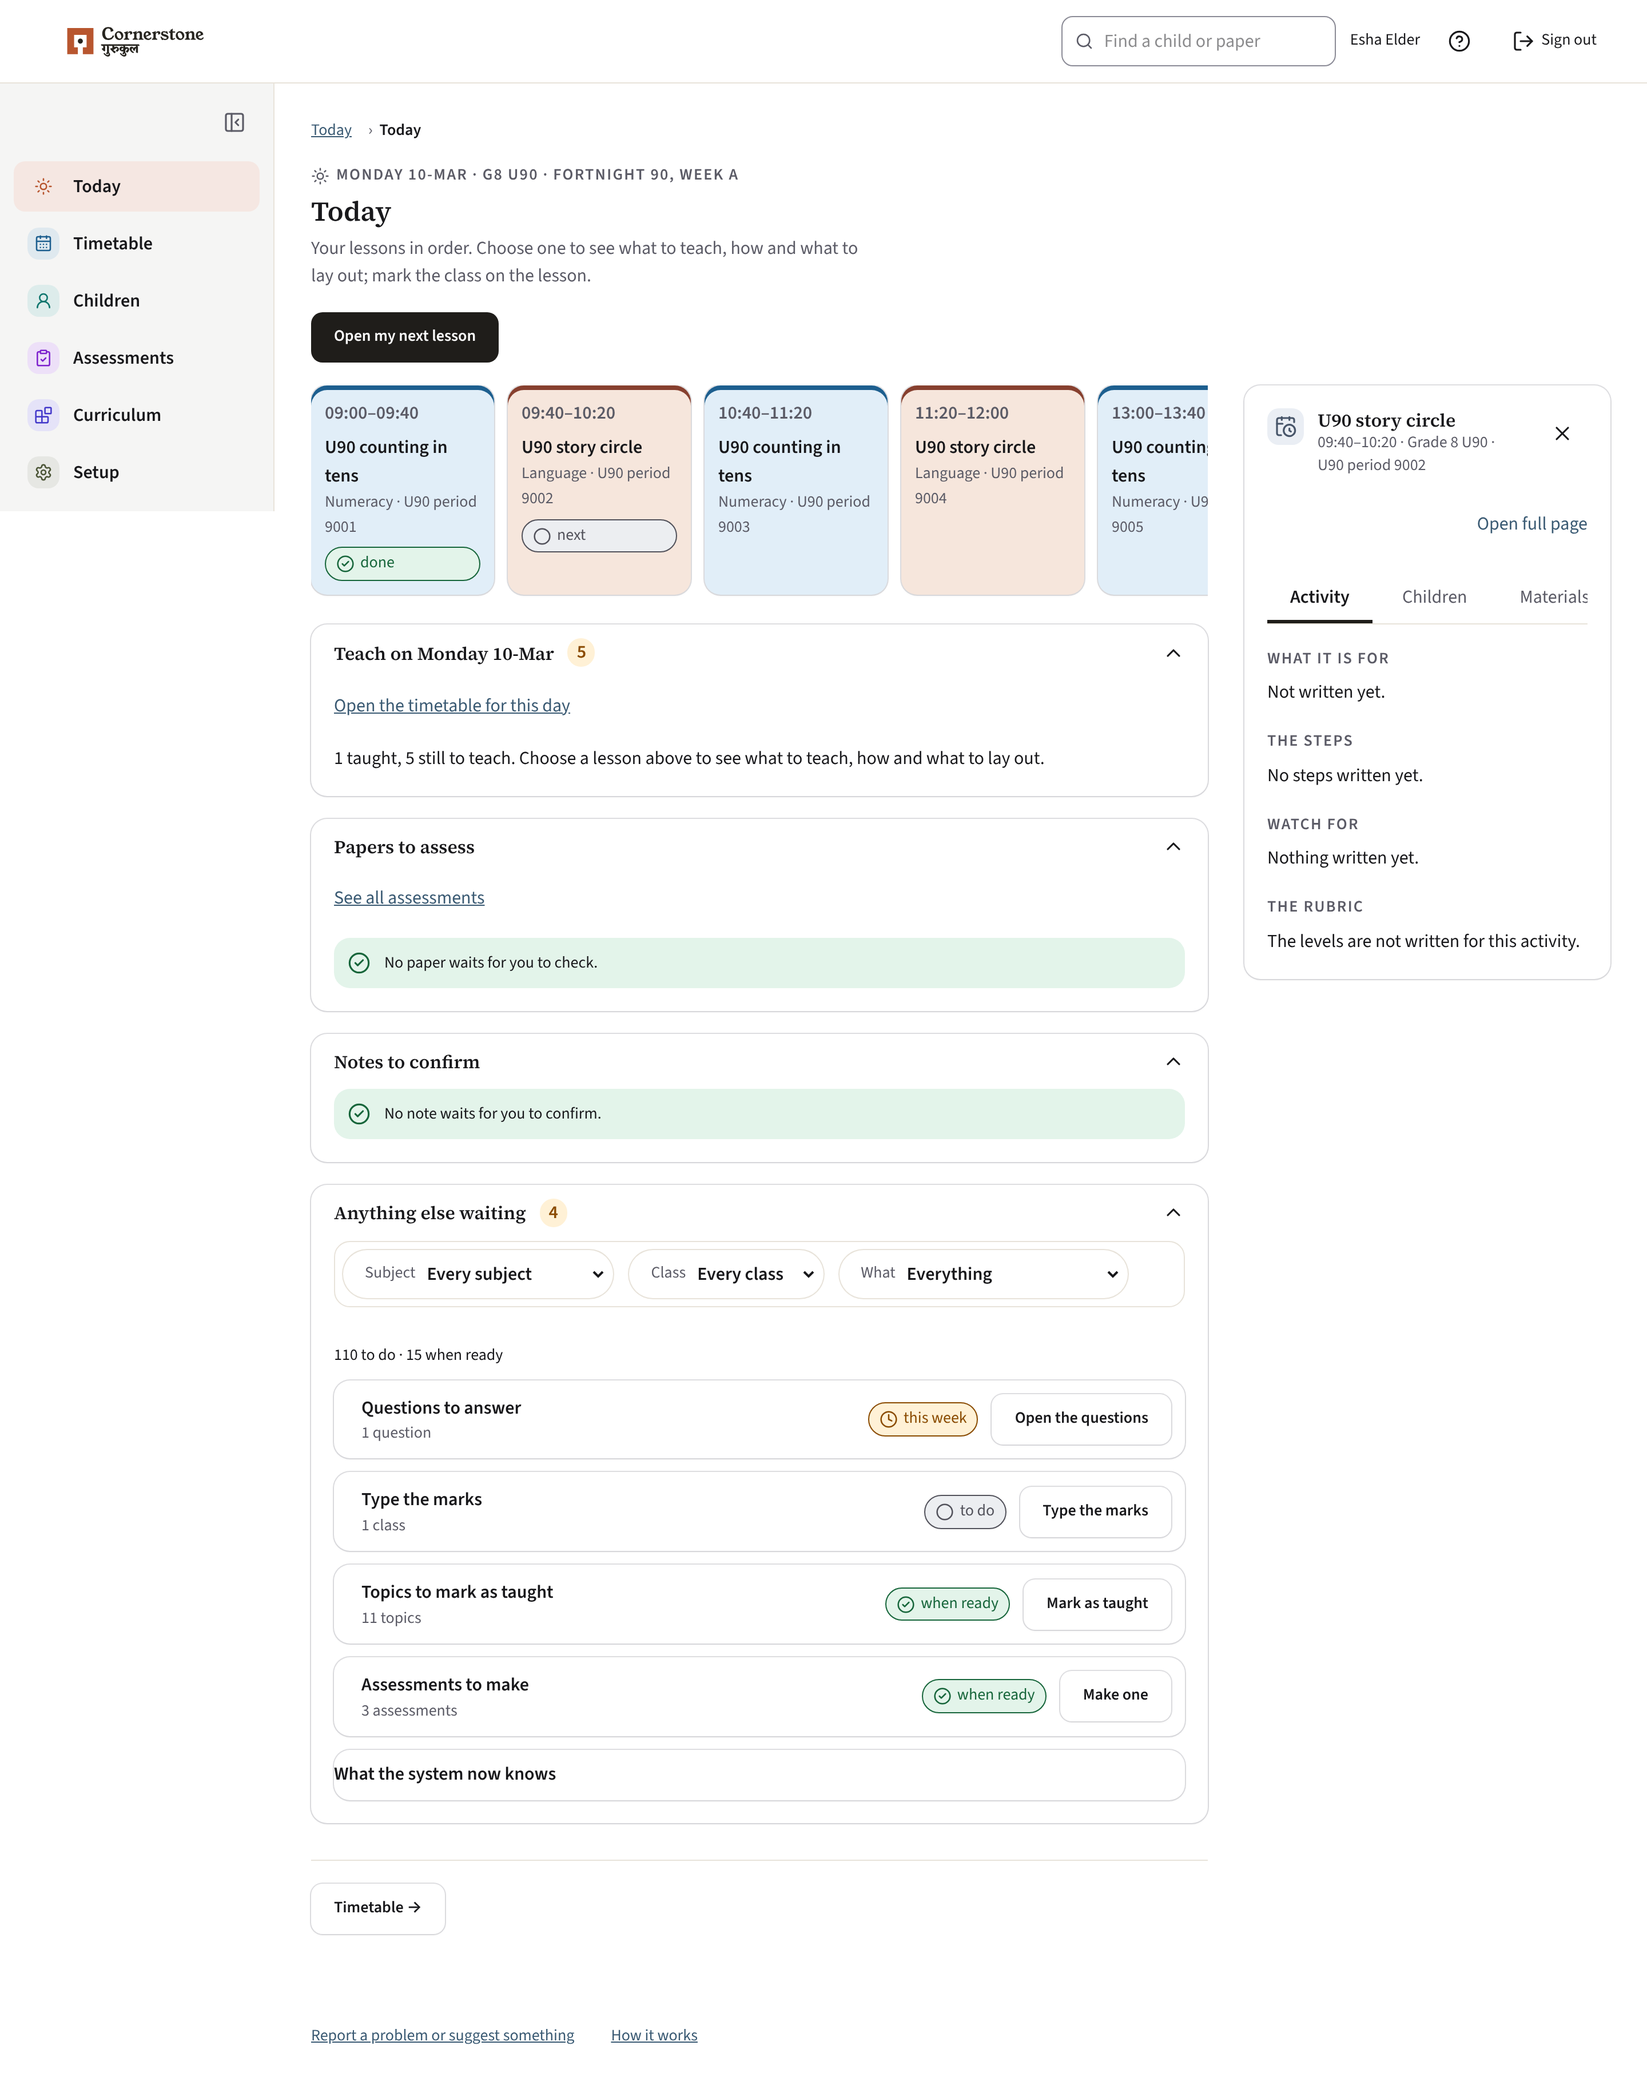
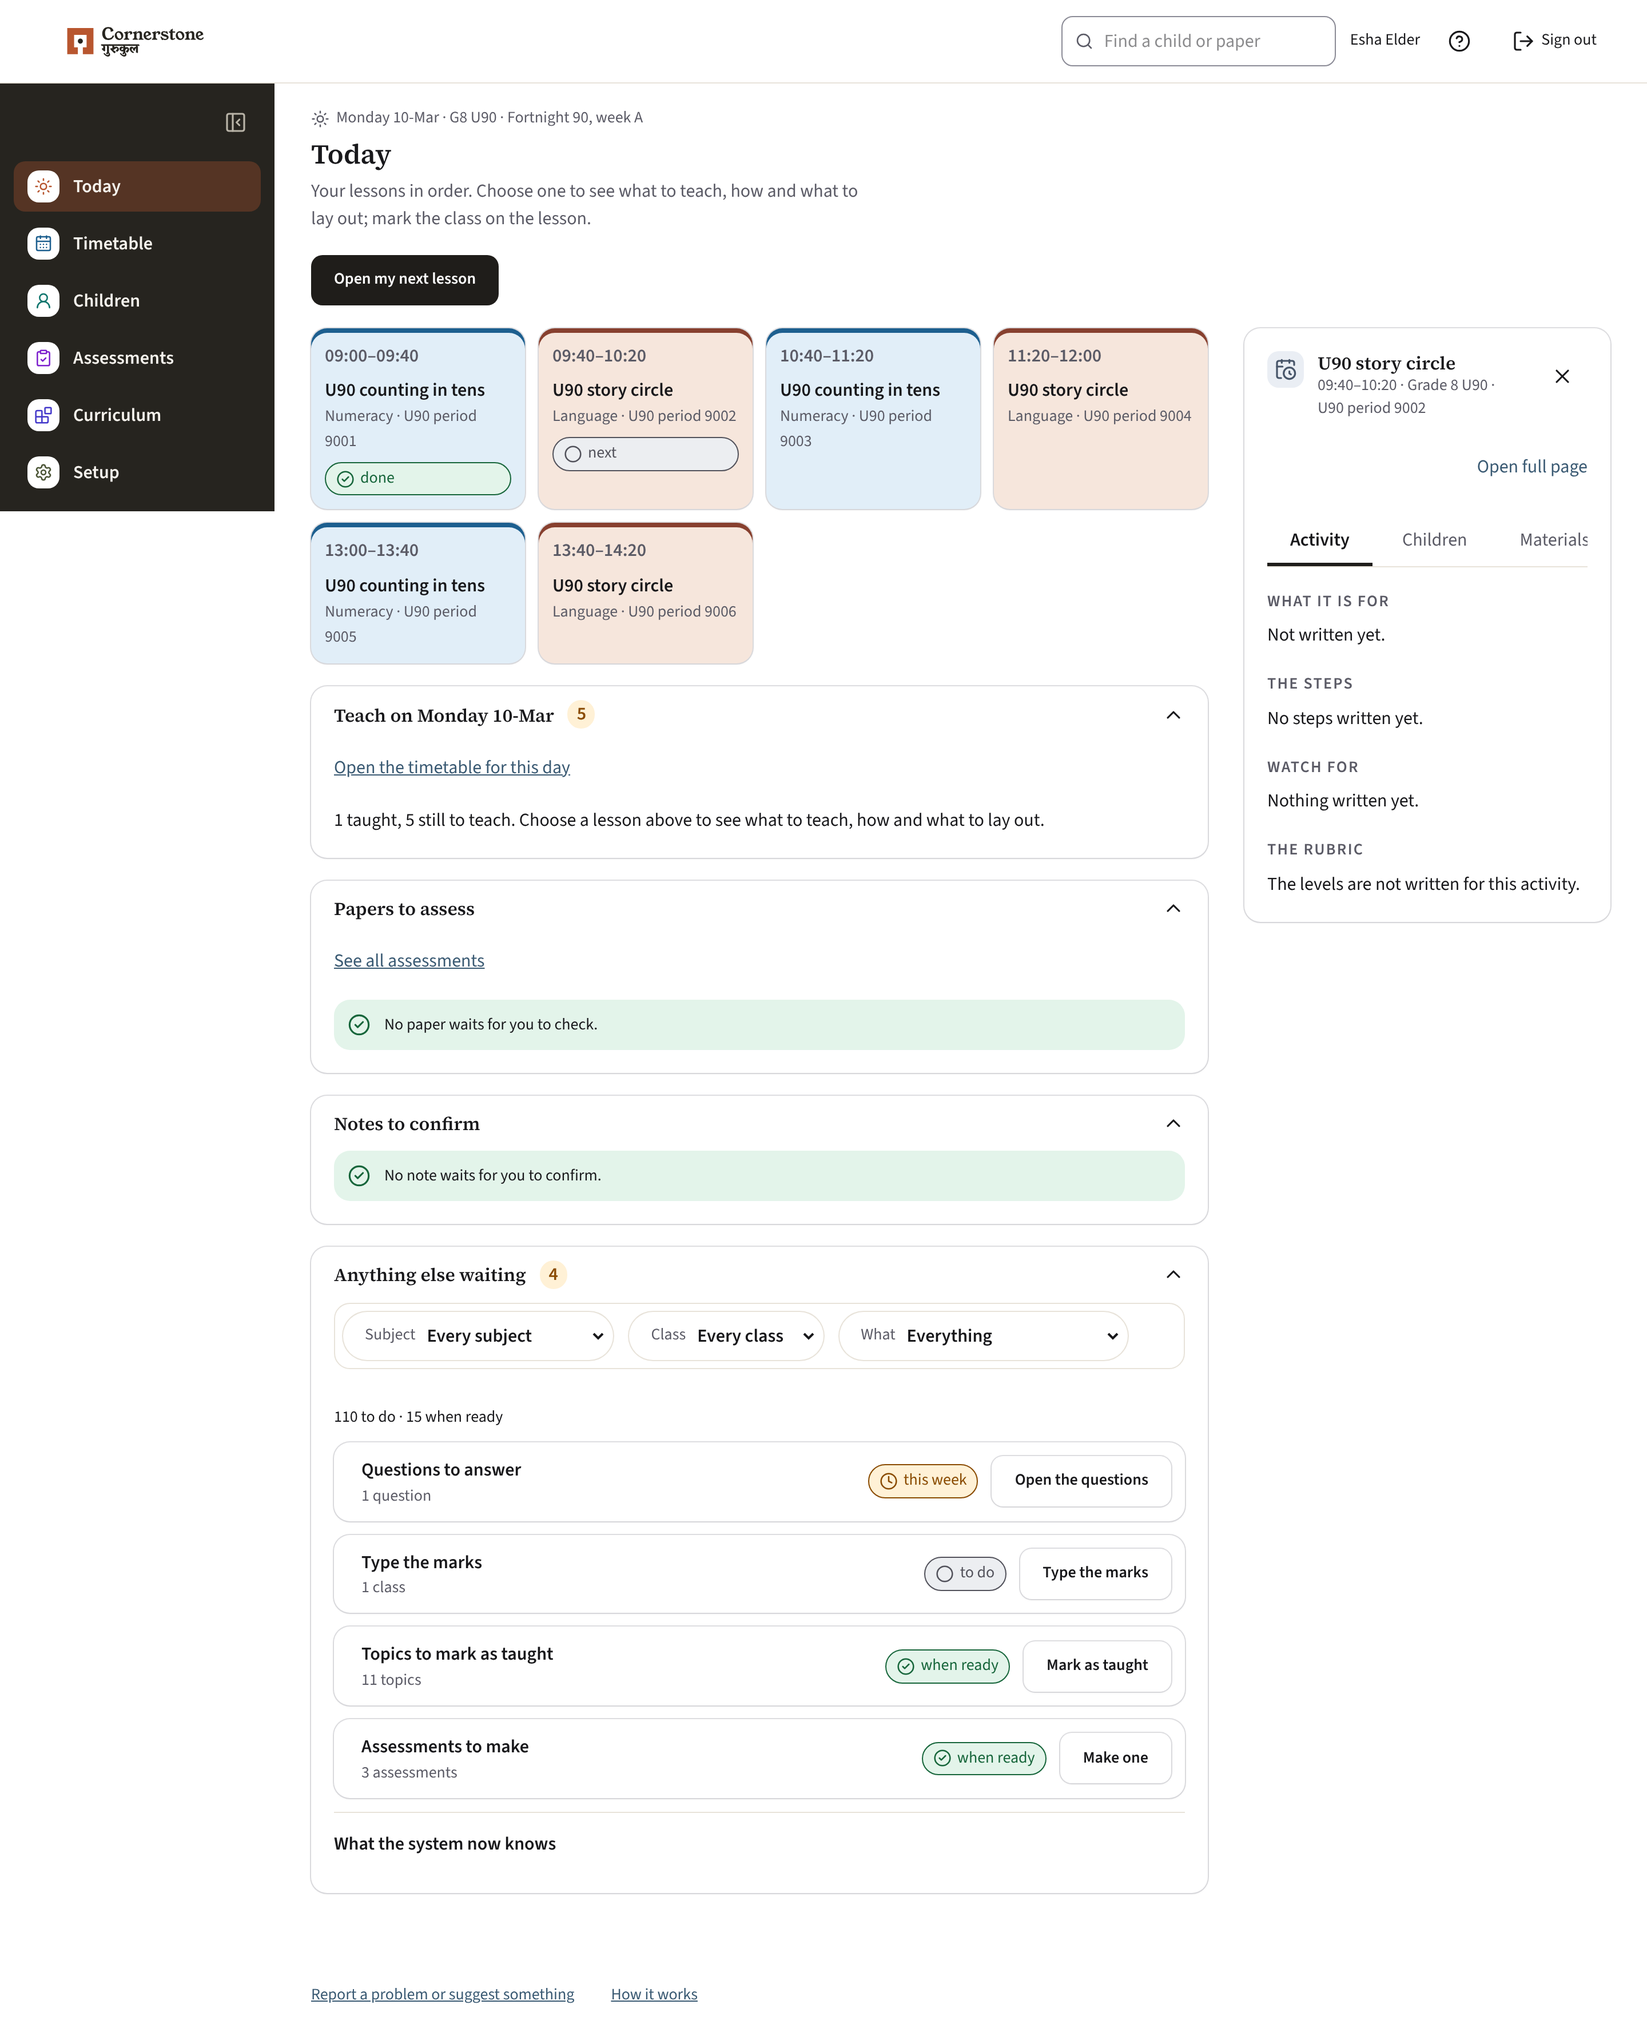
CP-65: basalt menu carries the colour, strip wraps, no duplicate trail or timetable link, flat knowledge row
Claude-Session: https://claude.ai/code/session_01KEBF2ALtBEgWa1gb1qmMYh

diff --git a/apps/web/components/frame/sidebar.tsx b/apps/web/components/frame/sidebar.tsx
@@ -14,7 +14,7 @@ import { useWalk, type FrameSection } from "./walk";
 // The page you are on is marked `aria-current="page"` and filled with its section's tint; the section of the walk is lit. Only Today carries a count (docs/ux-rules.md rule 5).
 
 const link =
-  "flex min-h-[var(--tap)] items-center gap-[var(--space-2)] rounded-[var(--radius-control)] px-[var(--space-2)] text-[length:var(--text-body)] no-underline transition-colors duration-100 hover:bg-[var(--panel)] focus-visible:outline-2 focus-visible:outline-[var(--focus)]";
+  "flex min-h-[var(--tap)] items-center gap-[var(--space-2)] rounded-[var(--radius-control)] px-[var(--space-2)] text-[length:var(--text-body)] no-underline transition-colors duration-100 hover:bg-[var(--menu-hover)] focus-visible:outline-2 focus-visible:outline-[var(--menu-ink)]";
 
 // Each section has its own colour, from the tokens (13 Nov 2026, "the left panel is bleak"): its icon sits in a tile of that colour and the
 // page you are on is filled with its tint. One formula for every section, so a new section is one line here.
@@ -28,8 +28,8 @@ const HUE: Record<string, string> = {
 };
 const hue = (key: string) => ({ "--sc": HUE[key] ?? "var(--ink-muted)" }) as CSSProperties;
 const TILE =
-  "inline-flex size-[28px] shrink-0 items-center justify-center rounded-[var(--radius-control)] bg-[color-mix(in_srgb,var(--sc)_14%,var(--panel))] text-[var(--sc)]";
-const ON = "bg-[color-mix(in_srgb,var(--sc)_14%,var(--panel))] font-semibold text-[var(--ink)]";
+  "inline-flex size-[28px] shrink-0 items-center justify-center rounded-[var(--radius-control)] bg-[var(--panel)] text-[var(--sc)]";
+const ON = "bg-[color-mix(in_srgb,var(--sc)_32%,var(--menu))] font-semibold text-[var(--menu-ink)]";
 
 /** The count is the link's description, not its name: the badge is drawn in the link, its words sit beside it (aria-describedby,
  *  on a span that is always there, so the reference never dangles). It arrives after the page (`useWalk().waiting`). */
@@ -87,7 +87,7 @@ function Open({ sections, lit, here, idp }: { sections: readonly FrameSection[];
                 data-menu-section={s.key}
                 aria-current={on ? "page" : undefined}
                 aria-describedby={p.counted ? id : undefined}
-                className={`${link} ${on ? ON : "text-[var(--ink)]"}`}
+                className={`${link} ${on ? ON : "text-[var(--menu-ink)]"}`}
               >
                 <span className={TILE} aria-hidden="true">
                   <Icon name={s.icon} size={16} />
@@ -115,7 +115,7 @@ function Folded({ sections, lit }: { sections: readonly FrameSection[]; lit?: st
             aria-label={s.label}
             title={s.label}
             aria-current={s.key === lit ? "true" : undefined}
-            className={`${link} justify-center ${s.key === lit ? "bg-[color-mix(in_srgb,var(--sc)_12%,var(--panel))]" : ""}`}
+            className={`${link} justify-center ${s.key === lit ? "bg-[color-mix(in_srgb,var(--sc)_32%,var(--menu))]" : ""}`}
           >
             <span className={TILE} aria-hidden="true">
               <Icon name={s.icon} size={18} />
@@ -143,7 +143,7 @@ export function Sidebar({ folded: start }: { folded: boolean }) {
     <div
       data-sidebar
       data-folded={folded ? "" : undefined}
-      className={`sticky top-0 hidden max-h-dvh shrink-0 self-start overflow-y-auto border-r border-[var(--line)] bg-[var(--menu)] p-[var(--space-2)] min-[701px]:block print:hidden ${folded ? "w-[72px]" : "w-[240px]"}`}
+      className={`sticky top-0 hidden max-h-dvh min-h-[calc(100dvh-72px)] shrink-0 self-start overflow-y-auto bg-[var(--menu)] p-[var(--space-2)] min-[701px]:block print:hidden ${folded ? "w-[72px]" : "w-[240px]"}`}
     >
       <button
         type="button"
@@ -152,7 +152,7 @@ export function Sidebar({ folded: start }: { folded: boolean }) {
         aria-controls={`${uid}-nav`}
         aria-label={folded ? "Open the menu" : "Fold the menu to icons"}
         title={folded ? "Open the menu" : "Fold the menu to icons"}
-        className={`${link} mb-[var(--space-2)] w-full cursor-pointer text-[var(--ink-muted)] ${folded ? "justify-center" : "justify-end"}`}
+        className={`${link} mb-[var(--space-2)] w-full cursor-pointer text-[var(--menu-ink-muted)] ${folded ? "justify-center" : "justify-end"}`}
       >
         <Icon name={folded ? "expand" : "collapse"} size={20} />
       </button>
@@ -200,11 +200,11 @@ export function MenuDrawer() {
           // a click on the backdrop (the dialog itself, outside its panel) closes it; a link inside closes it by changing the page
           if (e.target === box.current) box.current.close();
         }}
-        className="m-0 h-dvh max-h-dvh w-[min(85vw,320px)] max-w-none bg-[var(--menu)] p-[var(--space-3)] text-[var(--ink)] shadow-[var(--shadow-card)] backdrop:bg-black/40 min-[701px]:hidden"
+        className="m-0 h-dvh max-h-dvh w-[min(85vw,320px)] max-w-none bg-[var(--menu)] p-[var(--space-3)] text-[var(--menu-ink)] shadow-[var(--shadow-card)] backdrop:bg-black/40 min-[701px]:hidden"
       >
         <div className="mb-[var(--space-3)] flex items-center justify-between">
-          <span className="text-[length:var(--text-label)] tracking-[0.08em] text-[var(--ink-muted)] uppercase">Menu</span>
-          <button type="button" onClick={() => box.current?.close()} aria-label="Close the menu" className={`${link} cursor-pointer`}>
+          <span className="text-[length:var(--text-label)] text-[var(--menu-ink-muted)]">Menu</span>
+          <button type="button" onClick={() => box.current?.close()} aria-label="Close the menu" className={`${link} cursor-pointer text-[var(--menu-ink)]`}>
             <Icon name="close" size={20} />
           </button>
         </div>

diff --git a/apps/web/components/blocks.css b/apps/web/components/blocks.css
@@ -345,11 +345,11 @@
   .b-today-body { display: grid; gap: var(--space-2); padding: 0 var(--space-3) var(--space-3); }
   @media (prefers-reduced-motion: reduce) { .b-today-chev { transition: none; } }
 
-  .b-periods[data-strip] { display: grid; grid-auto-flow: column; grid-auto-columns: minmax(10rem, 1fr); gap: var(--space-2); overflow-x: auto; padding: 0 0 var(--space-1); list-style: none; margin: 0; }
+  .b-periods[data-strip] { display: grid; grid-template-columns: repeat(auto-fit, minmax(11rem, 1fr)); gap: var(--space-2); padding: 0; list-style: none; margin: 0; }
   .b-periods[data-strip] .b-prow { grid-template-columns: 1fr; grid-template-rows: auto auto; gap: var(--space-1); align-content: start; height: 100%; min-height: 0; padding: var(--space-2); background: var(--sb); box-shadow: inset 0 4px 0 var(--s), var(--shadow-card); }
   .b-periods[data-strip] .b-prow .b-t { text-align: left; font-weight: 600; }
   .b-periods[data-strip] .b-prow .b-stile { display: none; }
   .b-periods[data-strip] .b-prow[aria-current="time"] { box-shadow: inset 0 4px 0 var(--s), 0 0 0 2px var(--action); }
   .b-periods[data-strip] .b-prow[data-subject="fixed"] { background: var(--subject-fixed-bg); box-shadow: var(--shadow-card); }
-  @media (max-width: 700px) { .b-periods[data-strip] { grid-auto-flow: row; grid-auto-columns: auto; overflow: visible; } .b-periods[data-strip] .b-prow { grid-template-columns: 4rem minmax(0, 1fr) auto; grid-template-rows: auto; height: auto; } .b-periods[data-strip] .b-prow .b-t { grid-row: auto; } }
+  @media (max-width: 700px) { .b-periods[data-strip] { grid-template-columns: 1fr; } .b-periods[data-strip] .b-prow { grid-template-columns: 4rem minmax(0, 1fr) auto; grid-template-rows: auto; height: auto; } .b-periods[data-strip] .b-prow .b-t { grid-row: auto; } }
 }

diff --git a/apps/web/app/(app)/today/educator-today.tsx b/apps/web/app/(app)/today/educator-today.tsx
@@ -85,7 +85,7 @@ export async function EducatorToday({ me, day: asked, q }: { me: Session; day?: 
       title="Today"
       purpose="Your lessons in order. Choose one to see what to teach, how and what to lay out; mark the class on the lesson."
       action={firstSession ? <Link href={`/period/${firstSession}`} className="btn" data-next-lesson>Open my next lesson</Link> : <p className="font-semibold">{lessons.length ? "No lesson is left today." : "No lesson to open today."}</p>}
-      next={{ href: door(DOORS.timetable()) ?? "/timetable", label: "Timetable" }}
+      next={null}
       panel={waitRow ? <DetailPanel open={workPanel(waitRow, { q, tab, page: Math.max(1, Number(q.page) || 1), closeHref: todayAt(q) })} summary={{ title: "", stats: [] }} /> : panel ?? (lessons.length ? <DetailPanel summary={{ title: "Your day", stats: [{ id: "done", n: lessons.filter((p) => marks[p.period_id] === "done").length, line: "taught" }, { id: "left", n: lessons.filter((p) => marks[p.period_id] !== "done").length, line: "still to teach" }] }} /> : undefined)}
     >
       <TaughtNotice q={q} />

diff --git a/apps/web/components/parts.tsx b/apps/web/components/parts.tsx
@@ -20,10 +20,10 @@ export function PageHeader({ stage, title, sub, icon, inColumn, chip }: { stage:
     <header className={inColumn ? "mb-[var(--space-3)]" : "border-b border-[var(--line)] px-[var(--space-3)] pt-3 pb-3 md:px-[var(--space-4)]"}>
       <Trail thing={title} />
       {eyebrowSays(stage, title) ? (
-        <div className="mb-1 flex items-center gap-[var(--space-1)] truncate text-[length:var(--text-eyebrow)] font-semibold tracking-[0.08em] text-[var(--ink-muted)] uppercase md:whitespace-normal" data-testid="stage">
+        <div className="mb-1 flex items-center gap-[var(--space-1)] truncate text-[length:var(--text-eyebrow)] text-[var(--ink-muted)] md:whitespace-normal" data-testid="stage">
           {icon ? <Icon name={icon} size={16} /> : <DoorIcon />}
           <span>{stage}</span>
-          {chip ? <span className="ml-[var(--space-1)] normal-case tracking-normal">{chip}</span> : null}
+          {chip ? <span className="ml-[var(--space-1)]">{chip}</span> : null}
         </div>
       ) : chip ? (
         <div className="mb-1">{chip}</div>

diff --git a/apps/web/app/(app)/today/school-today.tsx b/apps/web/app/(app)/today/school-today.tsx
@@ -62,7 +62,7 @@ export async function SchoolToday({ me, q }: { me: Session; q: Record<string, st
       title="Today, the school"
       purpose="What waits on you, one row each with its own button. Choose a row to see the work behind it on the right."
       action={first ? <Link href={first.href!} className="btn" data-first-waiting>Open the first: {first.what.toLowerCase()}</Link> : <p className="font-semibold">{unread ? "What waits on you could not be read just now." : "Nothing waits on you."}</p>}
-      next={{ href: door(DOORS.timetable()) ?? "/timetable", label: "Timetable" }}
+      next={null}
       panel={<DetailPanel open={row ? workPanel(row, { q, tab: q.tab, page: Math.max(1, Number(q.page) || 1), closeHref: todayAt(q) }) : null} summary={summary} />}
     >
       <TaughtNotice q={q} />

diff --git a/docs/frontend/wireframes/kit.css b/docs/frontend/wireframes/kit.css
@@ -30,7 +30,10 @@
   --ground: #ffffff;
   --surface: #f2eee7;
   --panel: #ffffff;
-  --menu: #f5f5f4;
+  --menu: #26241f;
+  --menu-ink: #f6f3ed;
+  --menu-ink-muted: #b9b4a8;
+  --menu-hover: #38352e;
   --ink: #18181b;
   --ink-muted: #5b5b66;
   --line: #e8e3da;
@@ -90,6 +93,9 @@
     --surface: #1b1b1f;
     --panel: #1d1d21;
     --menu: #18171a;
+    --menu-ink: #ececf0;
+    --menu-ink-muted: #a1a1ab;
+    --menu-hover: #26252a;
     --ink: #ececf0;
     --ink-muted: #a1a1ab;
     --line: #2c2c33;
@@ -149,6 +155,9 @@
   --surface: #1b1b1f;
   --panel: #1d1d21;
   --menu: #18171a;
+  --menu-ink: #ececf0;
+  --menu-ink-muted: #a1a1ab;
+  --menu-hover: #26252a;
   --ink: #ececf0;
   --ink-muted: #a1a1ab;
   --line: #2c2c33;

diff --git a/apps/web/app/(app)/today/waiting-work.tsx b/apps/web/app/(app)/today/waiting-work.tsx
@@ -130,7 +130,7 @@ export async function KnowNote({ me, f, subjects }: { me: Session; f: WorkFilter
   const known = await deadline(weekNote(f.section && isMine(scope, f.section) ? { classes: [f.section], note: null } : scope, subject)).catch(() => null);
   if (!known) return null;
   return (
-    <details className="b-card" data-know>
+    <details className="border-t border-[var(--line)] pt-[var(--space-1)]" data-know>
       <summary className="flex min-h-[44px] cursor-pointer items-center font-semibold">What the system now knows</summary>
       <p className="b-label b-muted">
         {subjects.find((s) => s.code === subject)?.label ?? "Every subject"}, {weekWords(week)}, in the classes you see

diff --git a/apps/web/components/trail.tsx b/apps/web/components/trail.tsx
@@ -10,6 +10,8 @@ import { Icon } from "@/lib/icons";
 export function Trail({ thing }: { thing: string }) {
   const { sections, lit } = useWalk();
   const door = sections.find((d) => d.key === lit);
+  // a top-level page is its own section: the trail would say the title twice, so it is left out
+  if (door && door.label === thing) return null;
   return (
     <div className="mb-[var(--space-1)] flex items-center gap-[var(--space-2)] print:hidden">
     <nav aria-label="Where you are" data-trail className="min-w-0">

diff --git a/apps/web/design-system/tokens.css b/apps/web/design-system/tokens.css
@@ -5,7 +5,10 @@
   --ground: #ffffff;
   --surface: #f2eee7;
   --panel: #ffffff;
-  --menu: #f5f5f4;
+  --menu: #26241f;
+  --menu-ink: #f6f3ed;
+  --menu-ink-muted: #b9b4a8;
+  --menu-hover: #38352e;
   --ink: #18181b;
   --ink-muted: #5b5b66;
   --line: #e8e3da;
@@ -117,6 +120,9 @@
     --surface: #1b1b1f;
     --panel: #1d1d21;
     --menu: #18171a;
+    --menu-ink: #ececf0;
+    --menu-ink-muted: #a1a1ab;
+    --menu-hover: #26252a;
     --ink: #ececf0;
     --ink-muted: #a1a1ab;
     --line: #2c2c33;
